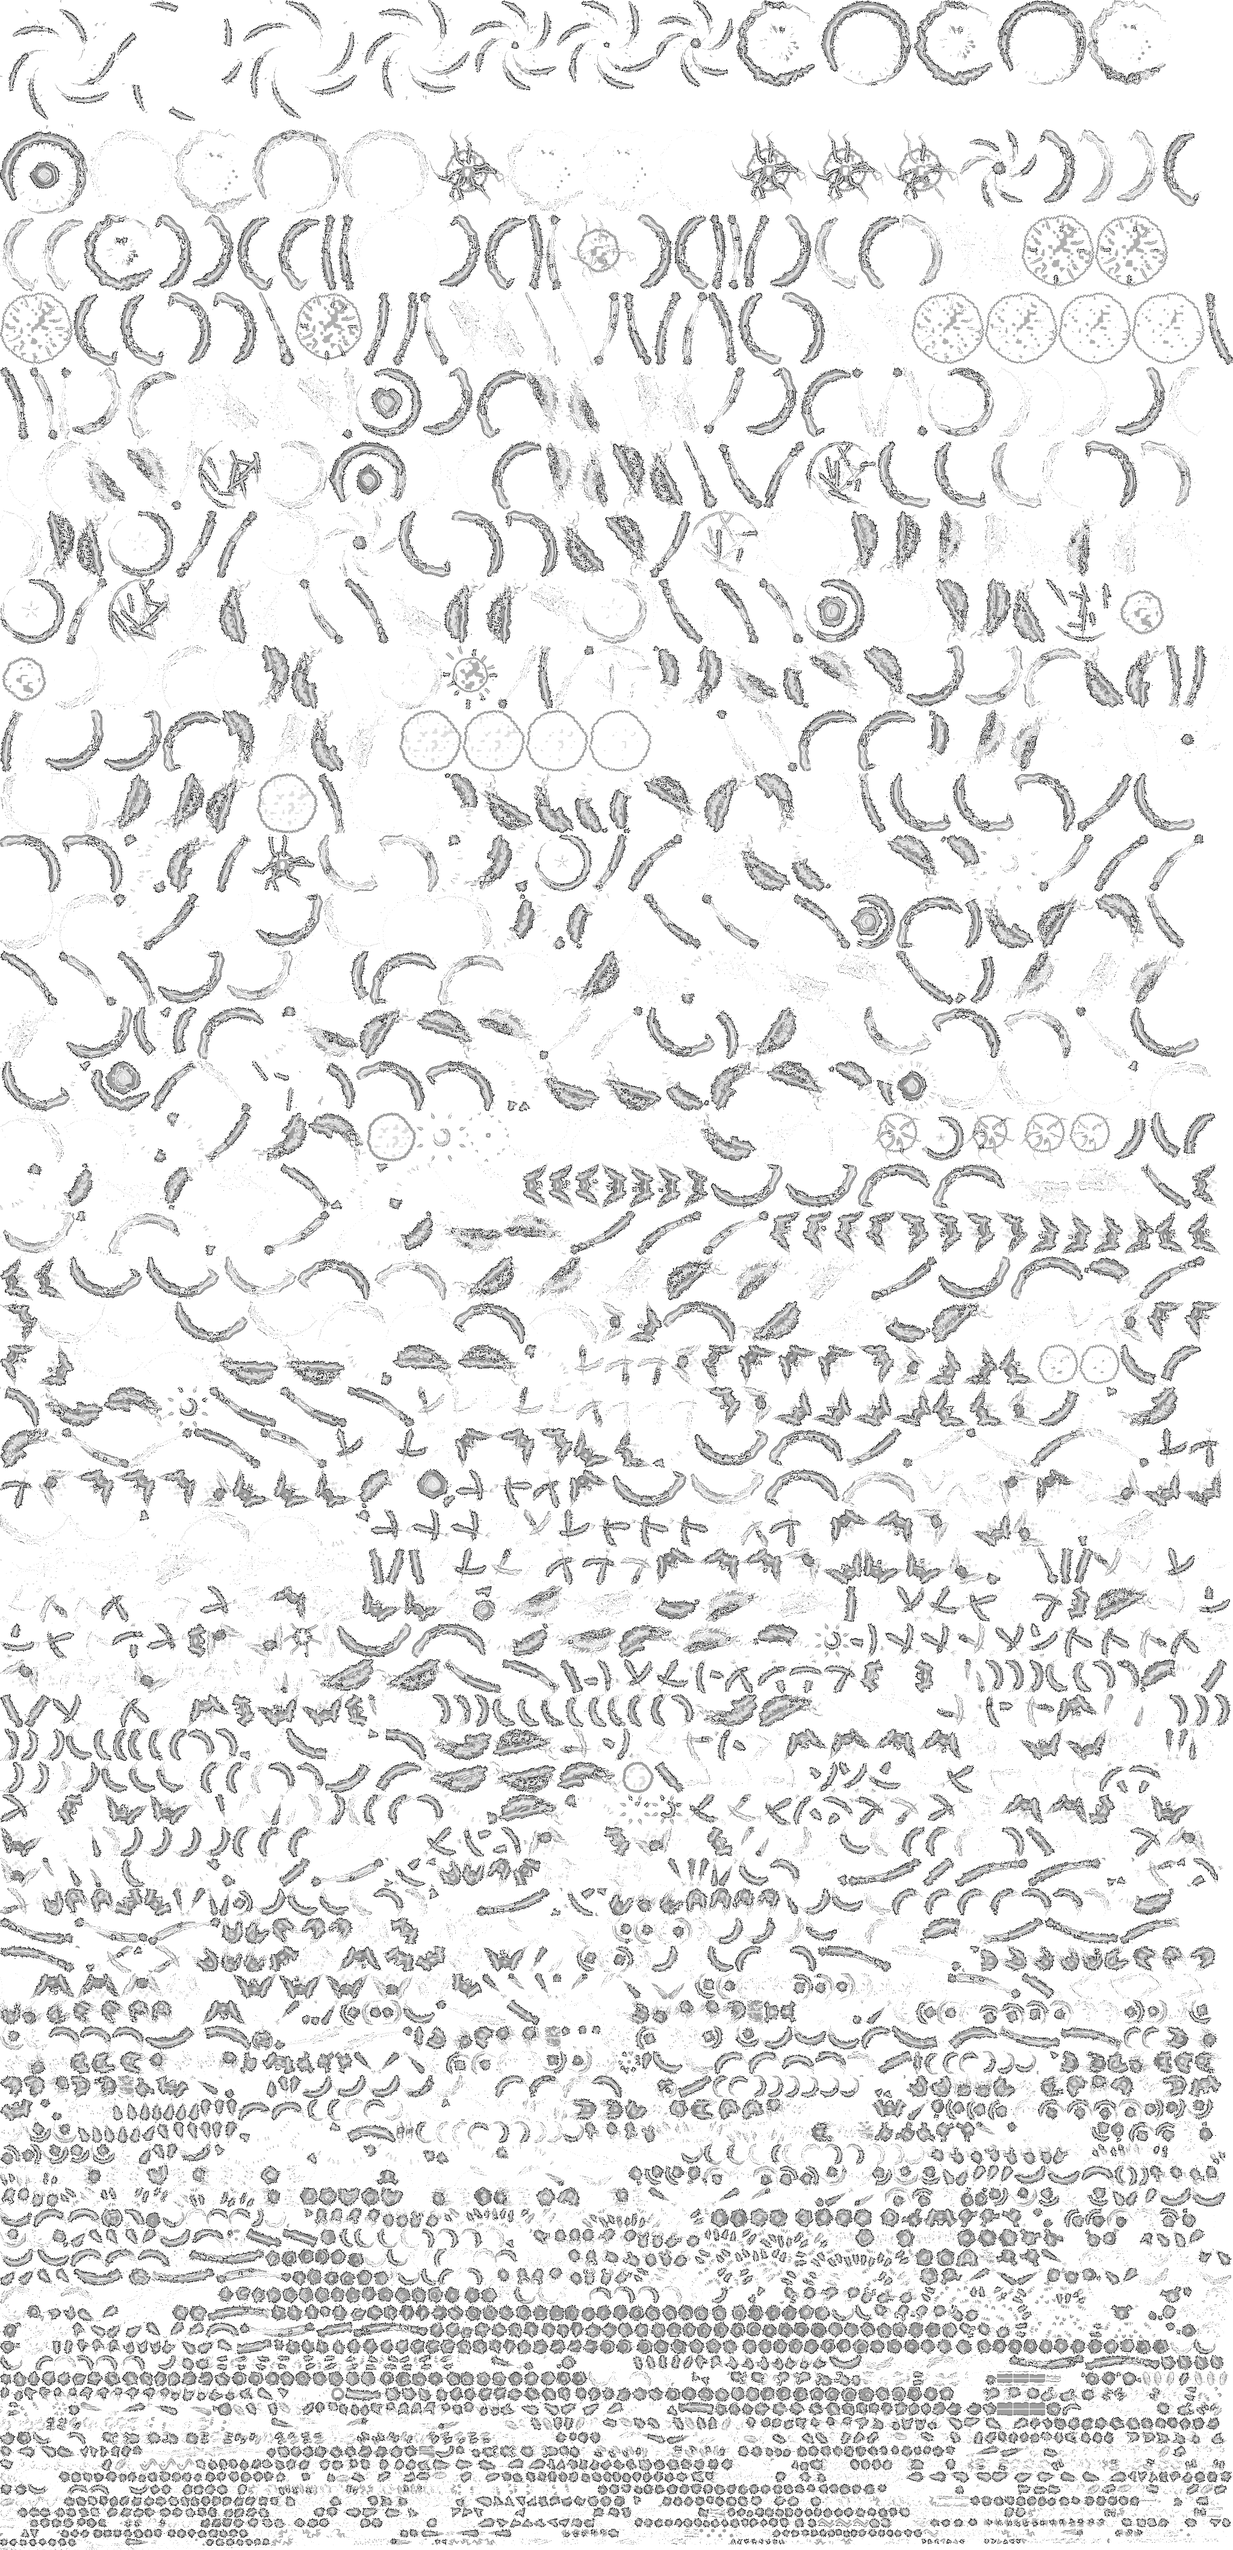
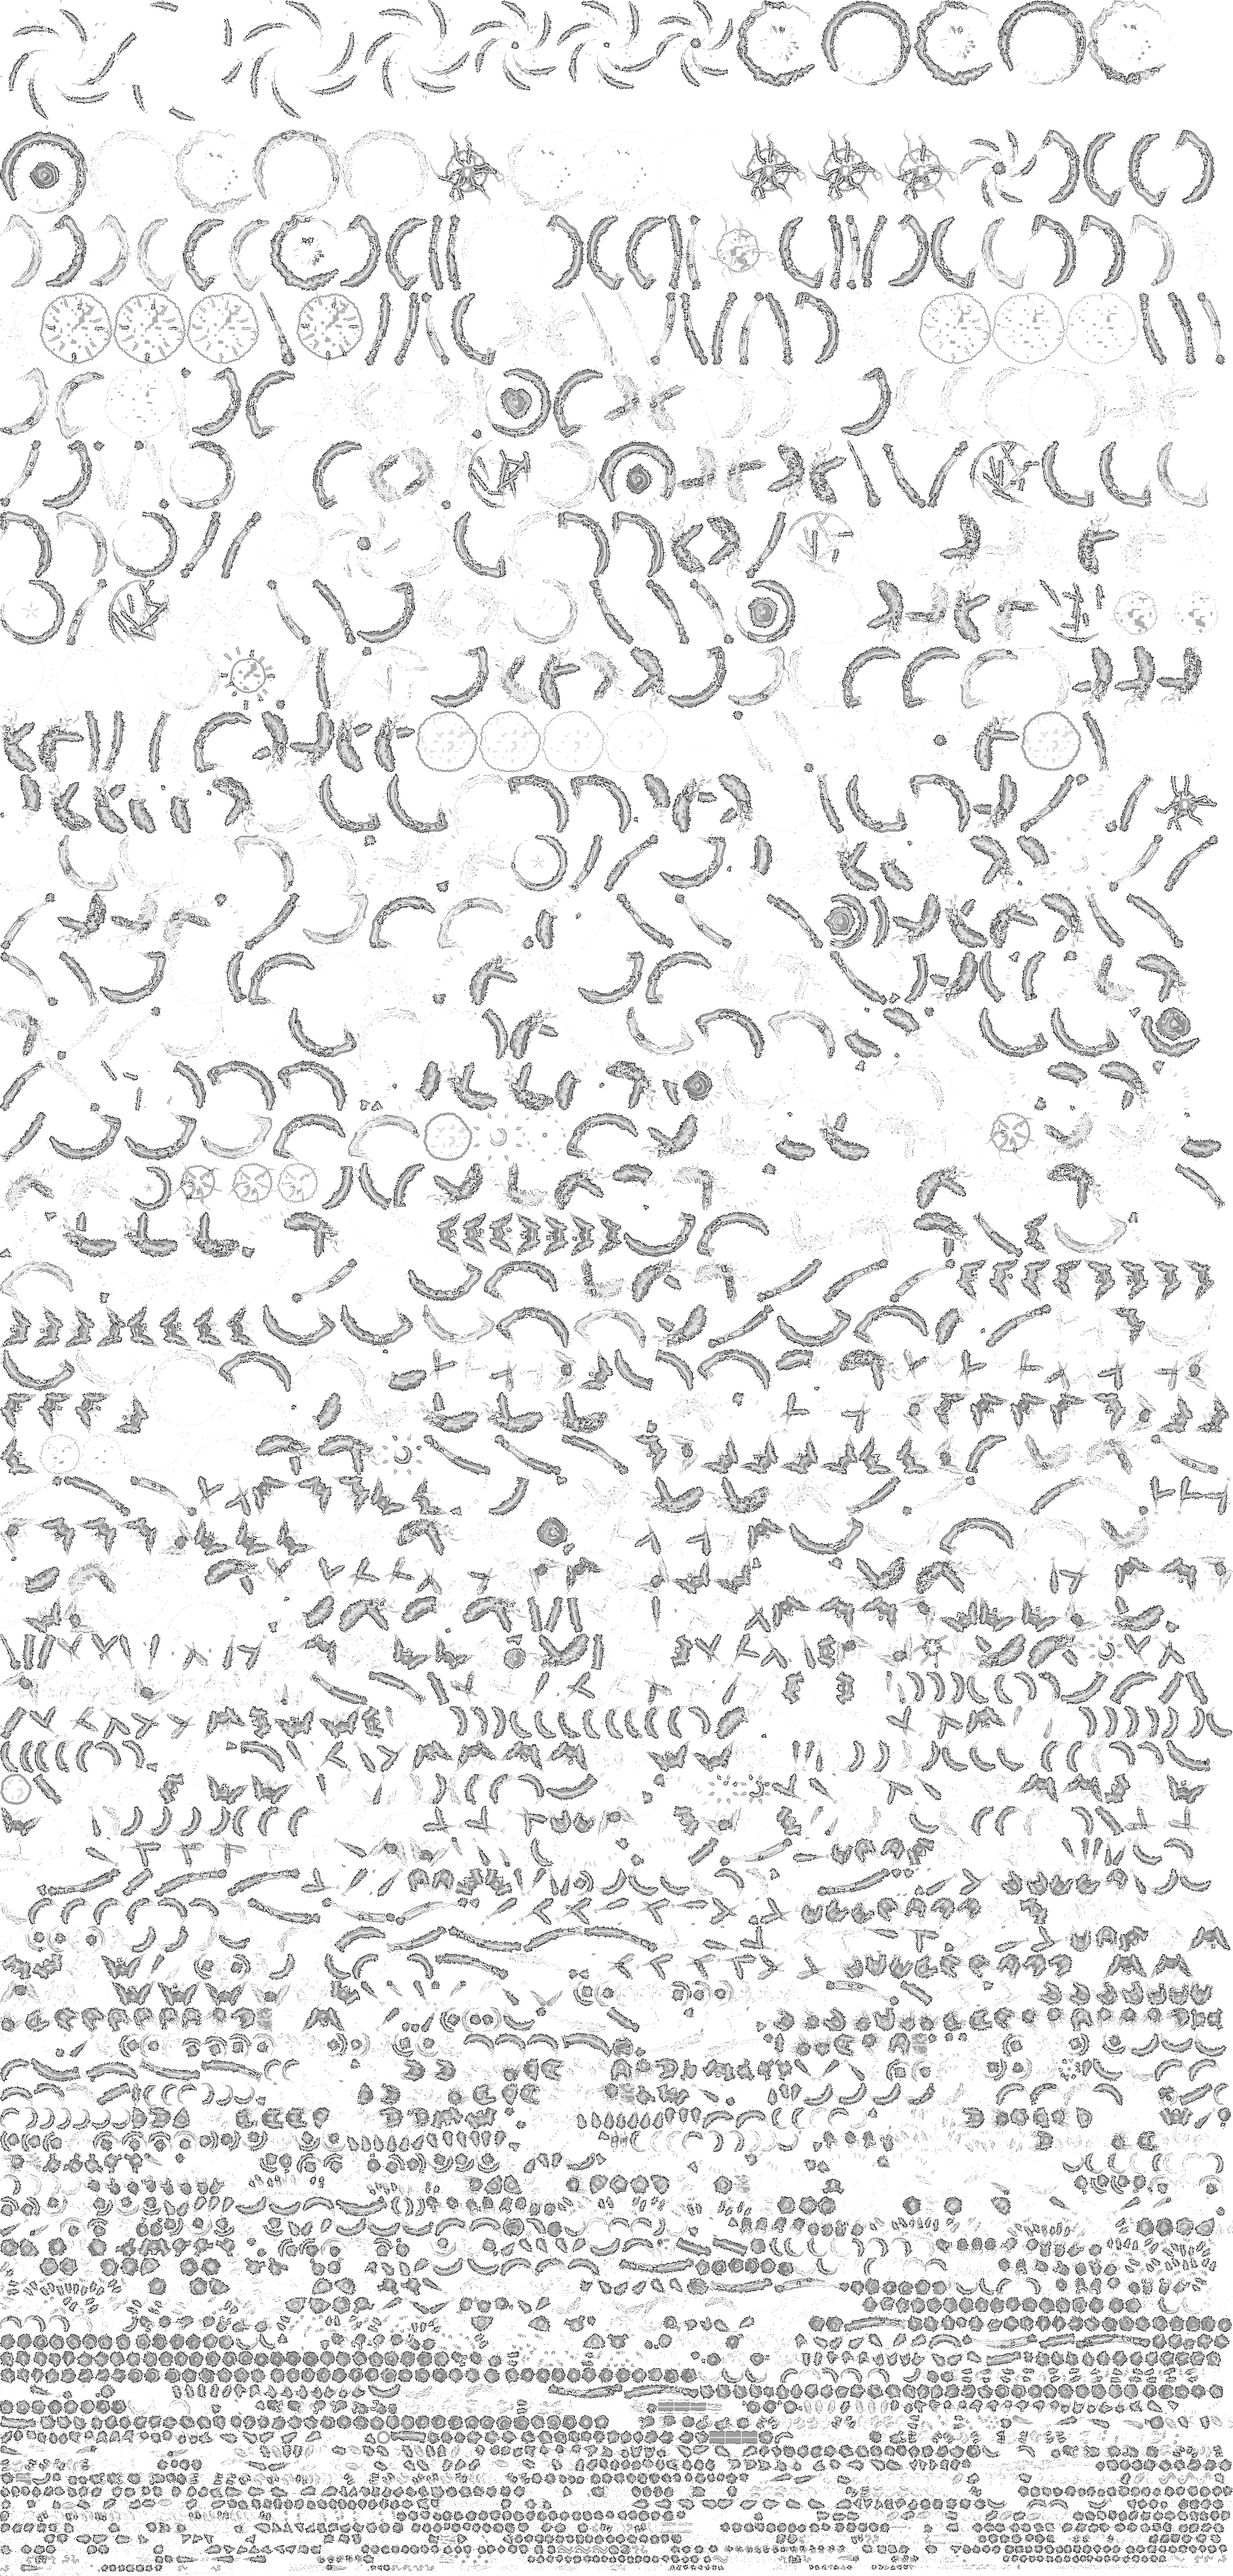
feat: スキル石と技のエフェクトを墨の絵に作り直す（技 D 組の仕上げと CHANGELOG）
- 手書きスキル 45 本と技 60 種を墨の筆の専用のドット絵にした（並列 9 担当の統合）

Claude-Session: https://claude.ai/code/session_01HwQhmwscr3qGgsBCugZiZh

diff --git a/CHANGELOG.md b/CHANGELOG.md
@@ -7,6 +7,7 @@
 ## [Unreleased]
 
 ### 追加
+- **スキル石と技のエフェクトを墨の絵に**（`docs/ideas/fx-sprites.md` 10 章）: 手書きスキル 45 本と技 60 種を、通常攻撃と同じ墨の筆で描いた専用のドット絵にした（斬る = 一筆、周りの範囲 = 円相、帯 = 一文字と止めの飛沫、移動 = 飛白、場 = 墨の滲み）。属性つきは芯だけ差し色。技は行為（扇・輪・帯・突進・弾・連鎖・引き寄せ・自己強化・起爆）ごとに絵を出し、武器の型で形が変わった行為は汎用の墨の絵で描く。狼化の噛みつき・鉄塊化の重い振りに専用の絵、置いた砲台は狙う向きへ砲身を向ける
 - **振りの速さと火力の見直し**（`docs/ideas/weapon-tempo.md`）: 近接の武器種を速さの 5 段に分け、全体に振りを遅くした（剣の 1 段目の予備動作 0.04 → 0.12 秒、大剣 0.14 → 0.36 秒）。速い武器は 1 撃が軽く秒間威力も控えめ、遅い武器は 1 撃が重く秒間威力も高め、段が進むほど 1 撃が伸び遅い武器ほど終撃が跳ね上がる。書と杖は秒間威力を据え置き
 - **敵の予告をドット絵の墨に**（`docs/ideas/ink-telegraph-impl.md` 5 章）: 予告の線・輪・扇を攻撃のエフェクトと同じ 0.5px のドットの墨（芯が真っ黒・淡い縁・掠れ・毛羽・飛沫・胡粉の 1 ドットの縁）で描く。輪・扇などの範囲の内側を濃墨のむらで塗る。下絵は淡墨の市松。画面ぶんの作業面 1 枚に描いて 1 回で置くので描画も軽くなった
 - **敵が気付く距離を縮める**: 気付く距離 110 → 70px・音（ダッシュ・命中・爆発）200 → 90〜140px。部屋に入っても自分の近くの敵だけが起き、奥の敵は眠ったまま。後詰は時間で全員が来るのをやめ、群勢が 6 割を切ったら遅れて出てくる（部屋の端で戦っていても部屋じゅうは寄ってこない）
